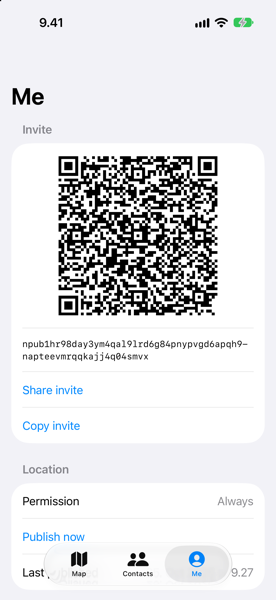
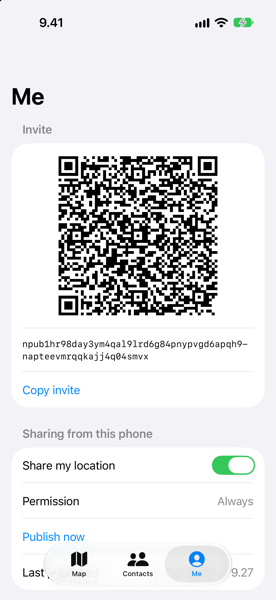
Watch without sharing on iOS too, run on Android 10, drop Share invite
iOS now has the Android app's "Share my location" switch on the Me
screen, off on a new install: until it is turned on the phone only
watches its contacts, publishes nothing, not even its relay list, and
needs no location permission, so a skeptical user can see others first.
Turning it on publishes the relay list, asks for location and starts
monitoring; turning it off stops monitoring and revokes the last
location as an empty recipient set does. A phone that had published a
location before keeps sharing on. Spec section 8.1 states the rule for
both platforms, and Android now republishes its relay list on every
switch-on, so relays changed while off reach contacts.

Android's minimum goes from Android 12 to Android 10, and the build
adds 32-bit ARM next to arm64, so older phones such as a Nokia 3.1 can
install it. The only call newer than Android 10, getCurrentLocation,
goes through LocationManagerCompat.

The Share invite button goes from both Me screens; Copy invite and the
QR code stay. The Me screenshots and the App Store notes follow, and
the build numbers go to iOS 9 and Android 6 for the test builds.

Prompts behind this commit, as given to Claude Code
(model claude-opus-5-5, effort xhigh):

44.
> can you make the most simple post or some info to the mismeet testers
> group that has the google play link so testers dont have to copy many
> links

45.
> can you do it in informal finnish like i speak in slack underscored

46.
[…]

Changed region(s): [[0.087, 0.69, 0.5507, 0.81], [0.7536, 0.75, 0.9275, 0.81], [0.087, 0.63, 0.3188, 0.66]]

diff --git a/ios/Mismeet/App/AppModel.swift b/ios/Mismeet/App/AppModel.swift
@@ -59,9 +59,13 @@ final class AppModel {
         location.onFix = { [weak self] fix in self?.handle(fix: fix) }
         location.onAuthorizationChange = { [weak self] status in
             self?.authorization = status
-            self?.location.startMonitoringIfAuthorized()
+            if self?.state.sharingEnabled == true { self?.location.startMonitoringIfAuthorized() }
         }
-        location.startMonitoringIfAuthorized()
+        if state.sharingEnabled {
+            location.startMonitoringIfAuthorized()
+        } else {
+            location.stopMonitoring()
+        }
         NotificationCenter.default.addObserver(
             forName: UIApplication.protectedDataDidBecomeAvailableNotification, object: nil, queue: .main
         ) { [weak self] _ in
@@ -70,7 +74,7 @@ final class AppModel {
                 self.state = self.store.load()
             }
         }
-        if state.relayListPublishedAt == nil {
+        if state.sharingEnabled, state.relayListPublishedAt == nil {
             Task { await publishRelayList() }
         }
         #if DEBUG
@@ -116,7 +120,7 @@ final class AppModel {
 
     func becameActive() {
         Task { await refresh() }
-        if authorization == .authorizedAlways || authorization == .authorizedWhenInUse {
+        if state.sharingEnabled, authorization == .authorizedAlways || authorization == .authorizedWhenInUse {
             pendingTrigger = .foreground
             location.requestFreshFix()
         }
@@ -124,6 +128,26 @@ final class AppModel {
 
     func requestLocationAuthorization() {
         location.requestAuthorization()
+    }
+
+    /// Publishing is opt-in: off, the phone only watches its contacts, publishes nothing and needs
+    /// no permission. On, it advertises its relays, asks for location and monitors it.
+    func setSharingEnabled(_ enabled: Bool) {
+        guard state.sharingEnabled != enabled else { return }
+        state.sharingEnabled = enabled
+        save()
+        if enabled {
+            Task { await publishRelayList() }
+            if authorization == .notDetermined { location.requestAuthorization() }
+            location.startMonitoringIfAuthorized()
+            if authorization == .authorizedAlways || authorization == .authorizedWhenInUse {
+                pendingTrigger = .manual
+                location.requestFreshFix()
+            }
+        } else {
+            location.stopMonitoring()
+            recipientsChanged()
+        }
     }
 
     // MARK: Contacts
@@ -250,18 +274,19 @@ final class AppModel {
         }
         state.relays.append(value)
         save()
-        Task { await publishRelayList() }
+        if state.sharingEnabled { Task { await publishRelayList() } }
     }
 
     func removeRelays(at offsets: IndexSet) {
         state.relays.remove(atOffsets: offsets)
         save()
-        Task { await publishRelayList() }
+        if state.sharingEnabled { Task { await publishRelayList() } }
     }
 
     // MARK: Publishing
 
     func publishNow() {
+        guard state.sharingEnabled else { return }
         guard authorization == .authorizedAlways || authorization == .authorizedWhenInUse else {
             tell("Location permission is needed to publish")
             return
@@ -271,6 +296,7 @@ final class AppModel {
     }
 
     private func handle(fix: LocationFix) {
+        guard state.sharingEnabled else { return }
         let trigger = pendingTrigger ?? .wakeup
         pendingTrigger = nil
         state.lastFix = fix
@@ -380,7 +406,8 @@ final class AppModel {
     }
 
     private func sharingRecipients() -> [PublicKey] {
-        state.contacts.filter(\.share).compactMap(\.publicKey)
+        guard state.sharingEnabled else { return [] }
+        return state.contacts.filter(\.share).compactMap(\.publicKey)
     }
 
     private func batteryLevel() -> Double? {

diff --git a/ios/Mismeet/UI/MeView.swift b/ios/Mismeet/UI/MeView.swift
@@ -19,20 +19,29 @@ struct MeView: View {
                     Text(model.npub)
                         .font(.footnote.monospaced())
                         .textSelection(.enabled)
-                    ShareLink(item: model.inviteLink) { Text("Share invite") }
                     Button("Copy invite") {
                         UIPasteboard.general.string = model.inviteLink
                     }
                 }
-                Section("Location") {
-                    LabeledContent("Permission", value: model.authorizationText)
-                    if model.authorization != .authorizedAlways {
-                        Button("Allow location") { model.requestLocationAuthorization() }
-                    }
-                    Button("Publish now") { model.publishNow() }
-                        .disabled(model.isPublishing)
-                    if let at = model.state.lastPublishedAt {
-                        LabeledContent("Last published", value: at.formatted(date: .abbreviated, time: .shortened))
+                Section("Sharing from this phone") {
+                    Toggle("Share my location", isOn: Binding(
+                        get: { model.state.sharingEnabled },
+                        set: { model.setSharingEnabled($0) }
+                    ))
+                    if model.state.sharingEnabled {
+                        LabeledContent("Permission", value: model.authorizationText)
+                        if model.authorization != .authorizedAlways {
+                            Button("Allow location") { model.requestLocationAuthorization() }
+                        }
+                        Button("Publish now") { model.publishNow() }
+                            .disabled(model.isPublishing)
+                        if let at = model.state.lastPublishedAt {
+                            LabeledContent("Last published", value: at.formatted(date: .abbreviated, time: .shortened))
+                        }
+                    } else {
+                        Text("Off: this phone only watches its contacts, publishes nothing and needs no location permission.")
+                            .font(.footnote)
+                            .foregroundStyle(.secondary)
                     }
                 }
                 Section("Relays") {

diff --git a/android/app/src/main/kotlin/app/mismeet/android/ui/MeScreen.kt b/android/app/src/main/kotlin/app/mismeet/android/ui/MeScreen.kt
@@ -23,7 +23,6 @@ import androidx.compose.foundation.verticalScroll
 import androidx.compose.material3.AlertDialog
 import androidx.compose.material3.Button
 import androidx.compose.material3.MaterialTheme
-import androidx.compose.material3.OutlinedButton
 import androidx.compose.material3.OutlinedTextField
 import androidx.compose.material3.Switch
 import androidx.compose.material3.Text
@@ -93,15 +92,9 @@ fun MeScreen(model: AppModel, modifier: Modifier = Modifier) {
         Text("Invite", style = MaterialTheme.typography.titleMedium)
         Image(qr.asImageBitmap(), contentDescription = "Invite QR code", modifier = Modifier.size(240.dp).align(Alignment.CenterHorizontally))
         Text(model.npub, style = MaterialTheme.typography.bodySmall)
-        Row(horizontalArrangement = Arrangement.spacedBy(8.dp)) {
-            Button(onClick = {
-                val send = Intent(Intent.ACTION_SEND).setType("text/plain").putExtra(Intent.EXTRA_TEXT, inviteLink)
-                context.startActivity(Intent.createChooser(send, "Share invite"))
-            }) { Text("Share invite") }
-            OutlinedButton(onClick = {
-                context.getSystemService(ClipboardManager::class.java)?.setPrimaryClip(ClipData.newPlainText("Mismeet invite", inviteLink))
-            }) { Text("Copy invite") }
-        }
+        Button(onClick = {
+            context.getSystemService(ClipboardManager::class.java)?.setPrimaryClip(ClipData.newPlainText("Mismeet invite", inviteLink))
+        }) { Text("Copy invite") }
 
         Text("Sharing from this phone", style = MaterialTheme.typography.titleMedium)
         Row(Modifier.fillMaxWidth(), horizontalArrangement = Arrangement.SpaceBetween, verticalAlignment = Alignment.CenterVertically) {

diff --git a/android/app/src/main/kotlin/app/mismeet/android/location/LocationProvider.kt b/android/app/src/main/kotlin/app/mismeet/android/location/LocationProvider.kt
@@ -9,6 +9,7 @@ import android.location.LocationManager
 import android.os.Build
 import android.os.CancellationSignal
 import android.os.PowerManager
+import androidx.core.location.LocationManagerCompat
 import app.mismeet.protocol.LocationFix
 import kotlin.coroutines.resume
 import kotlinx.coroutines.suspendCancellableCoroutine
@@ -28,7 +29,7 @@ object LocationProvider {
         Build.VERSION.SDK_INT < Build.VERSION_CODES.TIRAMISU ||
             context.checkSelfPermission(Manifest.permission.POST_NOTIFICATIONS) == PackageManager.PERMISSION_GRANTED
 
-    /** Stock Android 12 stops a foreground service it considers wasteful unless the app is exempted. */
+    /** Stock Android stops a foreground service it considers wasteful unless the app is exempted. */
     fun isIgnoringBatteryOptimizations(context: Context): Boolean =
         context.getSystemService(PowerManager::class.java)?.isIgnoringBatteryOptimizations(context.packageName) ?: true
 
@@ -43,7 +44,7 @@ object LocationProvider {
                 val signal = CancellationSignal()
                 continuation.invokeOnCancellation { signal.cancel() }
                 try {
-                    manager.getCurrentLocation(provider, signal, context.mainExecutor) { continuation.resume(it) }
+                    LocationManagerCompat.getCurrentLocation(manager, provider, signal, context.mainExecutor) { continuation.resume(it) }
                 } catch (e: SecurityException) {
                     continuation.resume(null)
                 }

diff --git a/ios/Mismeet/Store/PersistedState.swift b/ios/Mismeet/Store/PersistedState.swift
@@ -9,6 +9,7 @@ struct PersistedState: Codable, Equatable {
     var lastPublishedAt: Date?
     var lastFix: LocationFix?
     var relayListPublishedAt: Date?
+    var sharingEnabled = false
 }
 
 extension PersistedState {
@@ -21,6 +22,8 @@ extension PersistedState {
         lastPublishedAt = try container.decodeIfPresent(Date.self, forKey: .lastPublishedAt)
         lastFix = try container.decodeIfPresent(LocationFix.self, forKey: .lastFix)
         relayListPublishedAt = try container.decodeIfPresent(Date.self, forKey: .relayListPublishedAt)
+        // Before the switch existed, a phone that had published a location was sharing.
+        sharingEnabled = try container.decodeIfPresent(Bool.self, forKey: .sharingEnabled) ?? (lastPublishedCreatedAt != nil)
     }
 }
 

diff --git a/ios/Mismeet/UI/ContactsView.swift b/ios/Mismeet/UI/ContactsView.swift
@@ -71,11 +71,13 @@ struct ContactRow: View {
                 Text(status).font(.subheadline).foregroundStyle(.secondary)
             }
             Spacer()
-            Toggle("Share my location", isOn: Binding(
-                get: { contact.share },
-                set: { model.setShare(contact.id, $0) }
-            ))
-            .labelsHidden()
+            if model.state.sharingEnabled {
+                Toggle("Share my location", isOn: Binding(
+                    get: { contact.share },
+                    set: { model.setShare(contact.id, $0) }
+                ))
+                .labelsHidden()
+            }
         }
         .onChange(of: pickedPhoto) { _, item in
             guard let item else { return }

diff --git a/ios/MismeetTests/StateStoreTests.swift b/ios/MismeetTests/StateStoreTests.swift
@@ -33,6 +33,7 @@ final class StateStoreTests: XCTestCase {
         XCTAssertEqual(state.relays, PersistedState.defaultRelays)
         XCTAssertEqual(state.lastFix?.horizontalAccuracy, 8)
         XCTAssertNil(state.lastFix?.speed)
+        XCTAssertTrue(state.sharingEnabled)
     }
 
     func testFillsInFieldsAnOlderFileLacks() throws {
@@ -42,6 +43,7 @@ final class StateStoreTests: XCTestCase {
         XCTAssertEqual(contact.sharing, .unknown)
         XCTAssertNil(contact.photoSetAt)
         XCTAssertEqual(state.relays, PersistedState.defaultRelays)
+        XCTAssertFalse(state.sharingEnabled)
     }
 
     func testMovesAnUndecodableFileAsideBeforeStartingEmpty() throws {

diff --git a/android/app/src/main/kotlin/app/mismeet/android/AppModel.kt b/android/app/src/main/kotlin/app/mismeet/android/AppModel.kt
@@ -114,7 +114,7 @@ class AppModel private constructor(private val context: Context) {
         if (_state.value.sharingEnabled == enabled) return
         update { it.copy(sharingEnabled = enabled) }
         if (enabled) {
-            if (_state.value.relayListPublishedAt == null) scope.launch { publishRelayList() }
+            scope.launch { publishRelayList() }
             if (LocationProvider.hasForegroundPermission(context)) LocationService.start(context)
         } else {
             LocationService.stop(context)

diff --git a/ios/Mismeet/Location/LocationService.swift b/ios/Mismeet/Location/LocationService.swift
@@ -82,6 +82,13 @@ final class LocationService: NSObject, CLLocationManagerDelegate {
         monitoring = true
     }
 
+    /// Also ends a registration left by an earlier process, which would otherwise keep relaunching the app.
+    func stopMonitoring() {
+        manager.stopMonitoringSignificantLocationChanges()
+        manager.allowsBackgroundLocationUpdates = false
+        monitoring = false
+    }
+
     func requestFreshFix() {
         manager.requestLocation()
     }

diff --git a/CLAUDE.md b/CLAUDE.md
@@ -17,7 +17,7 @@ follows it, and a protocol change edits the spec first, in the same change.
   `UI/`.
 - `android/`: Kotlin, built with the Gradle wrapper checked into `android/`. Two modules:
   `app` (the Android app, Compose) and `protocol` (a plain JVM library holding the protocol core
-  and its tests). `compileSdk` and `targetSdk` are 36, `minSdk` is 31 so that stock Android 12
+  and its tests). `compileSdk` and `targetSdk` are 36, `minSdk` is 29 so that Android 10
   phones run it. No Google Play Services dependency: location comes from the platform
   `LocationManager` inside a foreground service that publishes on a fixed timer, never from the
   fused provider. Under `android/app/src/main/kotlin/app/mismeet/android/`: `AppModel.kt`,
@@ -47,6 +47,10 @@ follows it, and a protocol change edits the spec first, in the same change.
   table in the spec, section 10. The conformance checklist in section 12 is a unit test on each
   platform, under `ios/MismeetTests` and `android/protocol/src/test`.
 - Nothing but kinds `31122` and `10002` is ever published. No profile, no contact list, no DMs.
+- Publishing is opt-in and off by default on both platforms (spec section 8.1): the phone then
+  only watches its contacts, publishes nothing, not even its relay list, and needs no location
+  permission. The "Share my location" switch on the Me screen turns it on. Keep every
+  publishing path behind `sharingEnabled`.
 - Never log a secret key, a decrypted payload or a contact's public key above debug level.
 - Bundle identifier `app.mismeet.ios`, Android `applicationId` `app.mismeet.android`. Changing
   one means changing it here and in the project files in the same commit.
@@ -344,20 +348,19 @@ sips -Z 600 design/screenshots/<name>.png
 - GrapheneOS has no Google location services. The network location provider exists only when the
   user turns on GrapheneOS's own network location in Settings, so rely on `GPS_PROVIDER` and
   treat `NETWORK_PROVIDER` as optional.
-- Publishing from Android is opt-in and off by default: the phone then only watches its
-  contacts, publishes nothing (not even its relay list) and asks for no permission; the QR
-  scanner asks for the camera when used. The "Share my location" switch on the Me screen turns
-  publishing on, and only then do the location, notification and battery prompts appear and
-  the foreground service run. Keep every publishing path behind `sharingEnabled`.
-- `minSdk` is 31: `POST_NOTIFICATIONS` exists from API 33, so permission checks for it are gated
-  on the API level, and stock Android 12 needs the battery optimisation exemption the Me screen
-  offers or it stops the foreground service.
+- On Android, the location, notification and battery prompts appear and the foreground service
+  runs only once "Share my location" is on; the QR scanner asks for the camera when used.
+- `minSdk` is 29, Android 10: `POST_NOTIFICATIONS` exists from API 33, so permission checks for
+  it are gated on the API level, `LocationManager.getCurrentLocation` from API 30, so fixes go
+  through `LocationManagerCompat`, and stock Android 12 needs the battery optimisation exemption
+  the Me screen offers or it stops the foreground service.
 - Background location is a foreground service with `foregroundServiceType="location"`. It needs
   `FOREGROUND_SERVICE`, `FOREGROUND_SERVICE_LOCATION`, `ACCESS_FINE_LOCATION`,
-  `ACCESS_COARSE_LOCATION`, `ACCESS_BACKGROUND_LOCATION` and `POST_NOTIFICATIONS`. Android
-  grants "while in use" first and "all the time" only from the app's settings page, so the app
-  has to send the user there.
-- The Nostr Dev Kit AAR ships native libraries for every ABI; the phones are arm64-v8a. A native
+  `ACCESS_COARSE_LOCATION`, `ACCESS_BACKGROUND_LOCATION` and `POST_NOTIFICATIONS`. From
+  Android 11, Android grants "while in use" first and "all the time" only from the app's
+  settings page, so the app has to send the user there.
+- The Nostr Dev Kit AAR ships native libraries for every ABI; the build keeps arm64-v8a and,
+  for older 32-bit phones, armeabi-v7a. A native
   crash at startup on GrapheneOS is most likely its hardened memory allocator: check the
   per-app exploit protection compatibility mode before debugging anything else, and report it.
 - AndroidX is pinned to the last versions that compile against API 36; the newer ones demand

diff --git a/README.md b/README.md
@@ -22,9 +22,9 @@ the Mac, as described under Testing without a second phone.
 The protocol is specified and both apps build with the protocol core and its conformance
 tests, a device key, local contact and relay storage, relay publishing and fetching, location
 monitoring and a first set of screens. Neither app has been exercised end to end on a phone
-yet. An invite is a link, `https://lambdakilo.github.io/mismeet/i#nprofile1...`, sent from the
-Me screen with Share invite, scanned as a QR code or pasted; tapping it on a phone with Mismeet
-opens Add contact with the invite filled in. A contact can have a photo, kept on the
+yet. An invite is a link, `https://lambdakilo.github.io/mismeet/i#nprofile1...`, copied from
+the Me screen, scanned as a QR code or pasted; tapping it on a phone with Mismeet opens Add
+contact with the invite filled in. A contact can have a photo, kept on the
 phone, and the map shows a moving contact's likely position along the roads since the last
 fix, from OpenStreetMap data (spec section 8.6). The map opens on the people in the phone's own
 country, and a button at the bottom widens it to everyone, abroad included.
@@ -66,7 +66,7 @@ Run the commands in this section and the next from the root of your checkout.
   `xcbeautify` from Homebrew, an Apple ID (a free one is enough: the app uses no push and no
   special entitlement) and an iPhone on iOS 18 or later. The test device is an iPhone XR.
 - Android: a JDK 17 or later (Temurin 21 here), the Android command line tools with
-  `platforms;android-36`, `build-tools;36.0.0` and `platform-tools`, and a phone on Android 12
+  `platforms;android-36`, `build-tools;36.0.0` and `platform-tools`, and a phone on Android 10
   or later. The test devices are a phone on GrapheneOS and a Motorola Moto G200 5G on Android
   12. Gradle comes from the checked-in wrapper; no Android Studio is needed.
 
@@ -285,10 +285,10 @@ adb logcat --pid="$(adb shell pidof -s app.mismeet.android)"
 - Stock Android, and Android 12 in particular, stops background services it considers
   wasteful. The Me screen offers the battery optimisation exemption; grant it, or the sharing
   service will not survive the screen being off for long.
-- Android asks for location "while in use" first and "all the time" only from the app's
-  settings page; the Me screen walks through both, but only once "Share my location" is on.
-  Off, which is the default, the phone only watches its contacts and needs no permission
-  beyond the camera for scanning a QR code.
+- From Android 11, Android asks for location "while in use" first and "all the time" only from
+  the app's settings page; the Me screen walks through both, but only once "Share my location"
+  is on. Off, which is the default on both platforms, the phone only watches its contacts and
+  needs no permission beyond the camera for scanning a QR code.
 
 ### First test between two phones
 
@@ -296,8 +296,9 @@ The iPhone publishes and the Android phone watches. Each phone scans the other's
 the iPhone's scan tells it whom to encrypt for, the Android phone's scan tells it whose events
 to fetch.
 
-1. On the iPhone, open Me, tap "Allow location" and grant it, then "Allow location" again for
-   "Always". The log on the same screen shows "Relay list: accepted by N of 3 relays".
+1. On the iPhone, open Me, turn on "Share my location" and grant location while using the app,
+   then tap "Allow location" for "Always". The log on the same screen shows "Relay list:
+   accepted by N of 3 relays".
 2. On the Android phone, open Me: its invite QR code is on screen. On the iPhone, Contacts >
    "+" > "Scan QR code", scan it, give the contact a name and tap Add. The iPhone log shows
    "Location: accepted by N of 3 relays" within a few seconds.

diff --git a/design/app-store/listing.md b/design/app-store/listing.md
@@ -27,6 +27,7 @@ Mismeet shows the people you choose where you are, and you where they are, witho
 Your phone publishes its location to Nostr relays, encrypted separately for each person you share with. Relays pass it along but can read neither the location nor who it is for, and every location expires after 24 hours.
 
 - Add a contact by scanning the QR code of their invite, or by pasting it.
+- Watch your contacts without sharing anything yourself: sharing is off until you turn it on, and until then the app needs no location permission.
 - Choose for each contact whether you share your location with them.
 - See everyone on the map at a glance, with how long ago each position was seen.
 - Your location updates in the background as you move.
@@ -52,7 +53,7 @@ location,sharing,friends,family,map,privacy,encrypted,nostr,find,where,meet
 ```text
 Mismeet needs no account: each install creates its own key on the device.
 
-Location: the app asks for location while in use, then Always. With Always it publishes the user's position, end-to-end encrypted, on significant location changes while the app is closed, so that the contacts the user chose see a recent position. It publishes only for contacts the user added and left sharing on, and nothing when there are none.
+Location: sharing is off until the user turns on Share my location on the Me tab; until then the app only shows contacts and needs no location permission. Turned on, it asks for location while in use, then Always. With Always it publishes the user's position, end-to-end encrypted, on significant location changes while the app is closed, so that the contacts the user chose see a recent position. It publishes only for contacts the user added and left sharing on, and nothing when there are none.
 
 To try it, use two devices. On each, open the Me tab to show the invite QR code. On the other, open Contacts, tap +, then Scan QR code, and add it. Within a minute each phone shows the other on the map. With one device, the Me tab shows the invite and the map shows your own position.
 ```
@@ -68,7 +69,7 @@ Mismeet lets people share their location with the family members and friends the
 
 Setup and main features
 No account, login or sample files are needed.
-1. Open Mismeet and allow location access while using the app, then Always, so that the position updates in the background.
+1. Open Mismeet, turn on Share my location on the Me tab and allow location access while using the app, then tap Allow location for Always, so that the position updates in the background.
 2. To add a contact, open the Me tab on their device to show its invite QR code. On yours, open Contacts, tap +, tap Scan QR code, scan it, type a name and tap Add. Do the same the other way round to share in both directions.
 3. Within about a minute the Map tab shows the contact's position together with yours, and the Contacts tab shows how long ago it was seen. Each contact has a switch to stop sharing your location with them, and swiping a contact removes it.
 With a single device, the Me tab shows the invite and the map shows your own position. Seeing a contact needs a second device running Mismeet, as in the screen recording.
